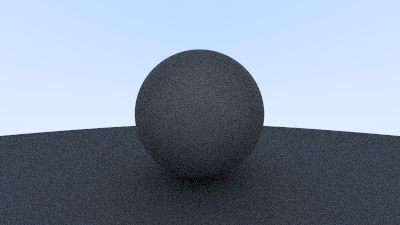
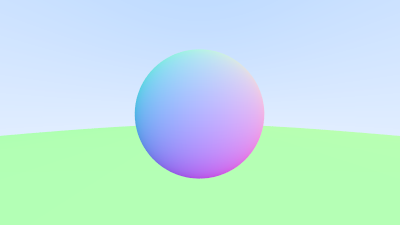
temp commit

diff --git a/src/utils.rs b/src/utils.rs
@@ -26,22 +26,25 @@ pub fn cal_color_vec(point: Vec3) -> image::Rgb<u8> {
 
 pub fn ray_color(ray: &Ray, world: &HittableList, depth: i32) -> image::Rgb<u8> {
     let mut rec = HitRecord::new();
-    if depth <= 0 {
-        let point = Vec3::default();
-        return cal_color_vec(point);
-    }
-    if world.hit(*ray, 0.0, f64::INFINITY, &mut rec) {
-        let target = rec.p + rec.normal + random_in_unit_sphere();
-        let new_ray_dir = target - rec.p;
-        let new_ray = Ray::new(&rec.p, &new_ray_dir);
-        let mut color: Color = ray_color(&new_ray, world, depth - 1).into();
-        color.r /= 2;
-        color.g /= 2;
-        color.b /= 2;
-        let ret: image::Rgb<u8> = color.into();
-        return ret;
-    }
+    //if depth <= 0 {
+    //let point = Vec3::default();
+    //return cal_color_vec(point);
+    //}
+    //if world.hit(*ray, 0.0, f64::INFINITY, &mut rec) {
+    //let target = rec.p + rec.normal + random_in_unit_sphere();
+    //let new_ray_dir = target - rec.p;
+    //let new_ray = Ray::new(&rec.p, &new_ray_dir);
+    //let mut color: Color = ray_color(&new_ray, world, depth - 1).into();
+    //color.r /= 2;
+    //color.g /= 2;
+    //color.b /= 2;
+    //let ret: image::Rgb<u8> = color.into();
+    //return ret;
+    //}
 
+    if world.hit(*ray, 0.0, f64::INFINITY, &mut rec) {
+        return cal_color_vec((rec.normal + 1.0) * 0.5);
+    }
     let unit_ray = uini_vec3(&ray.dir);
     let t = 0.5 * (unit_ray.y + 1.0);
     let t1 = 1.0 - t;
